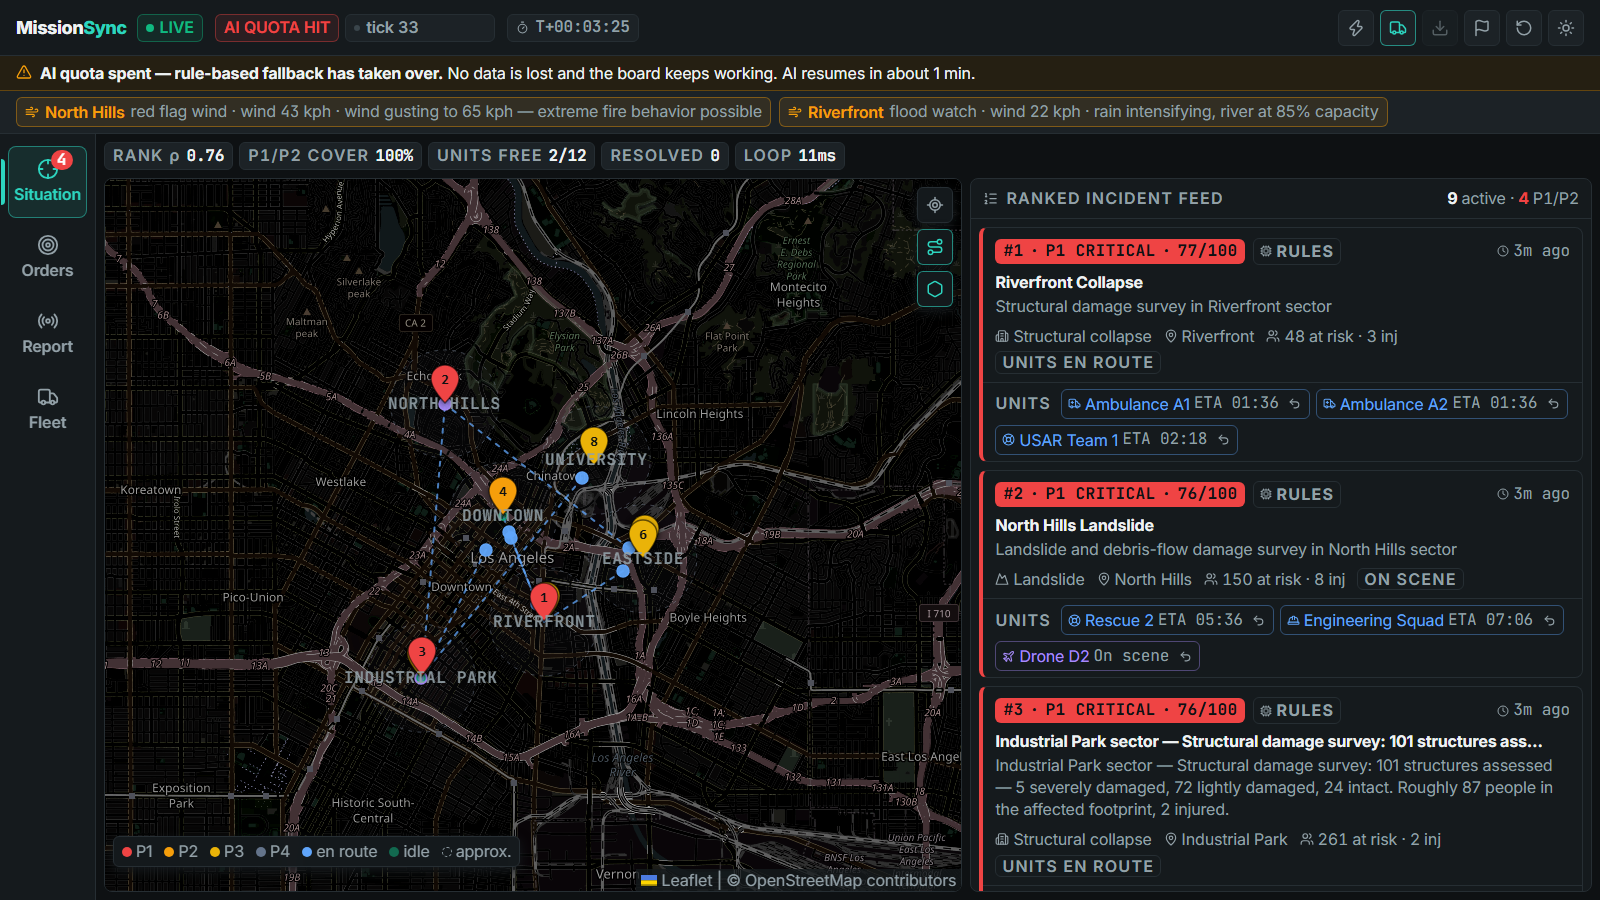
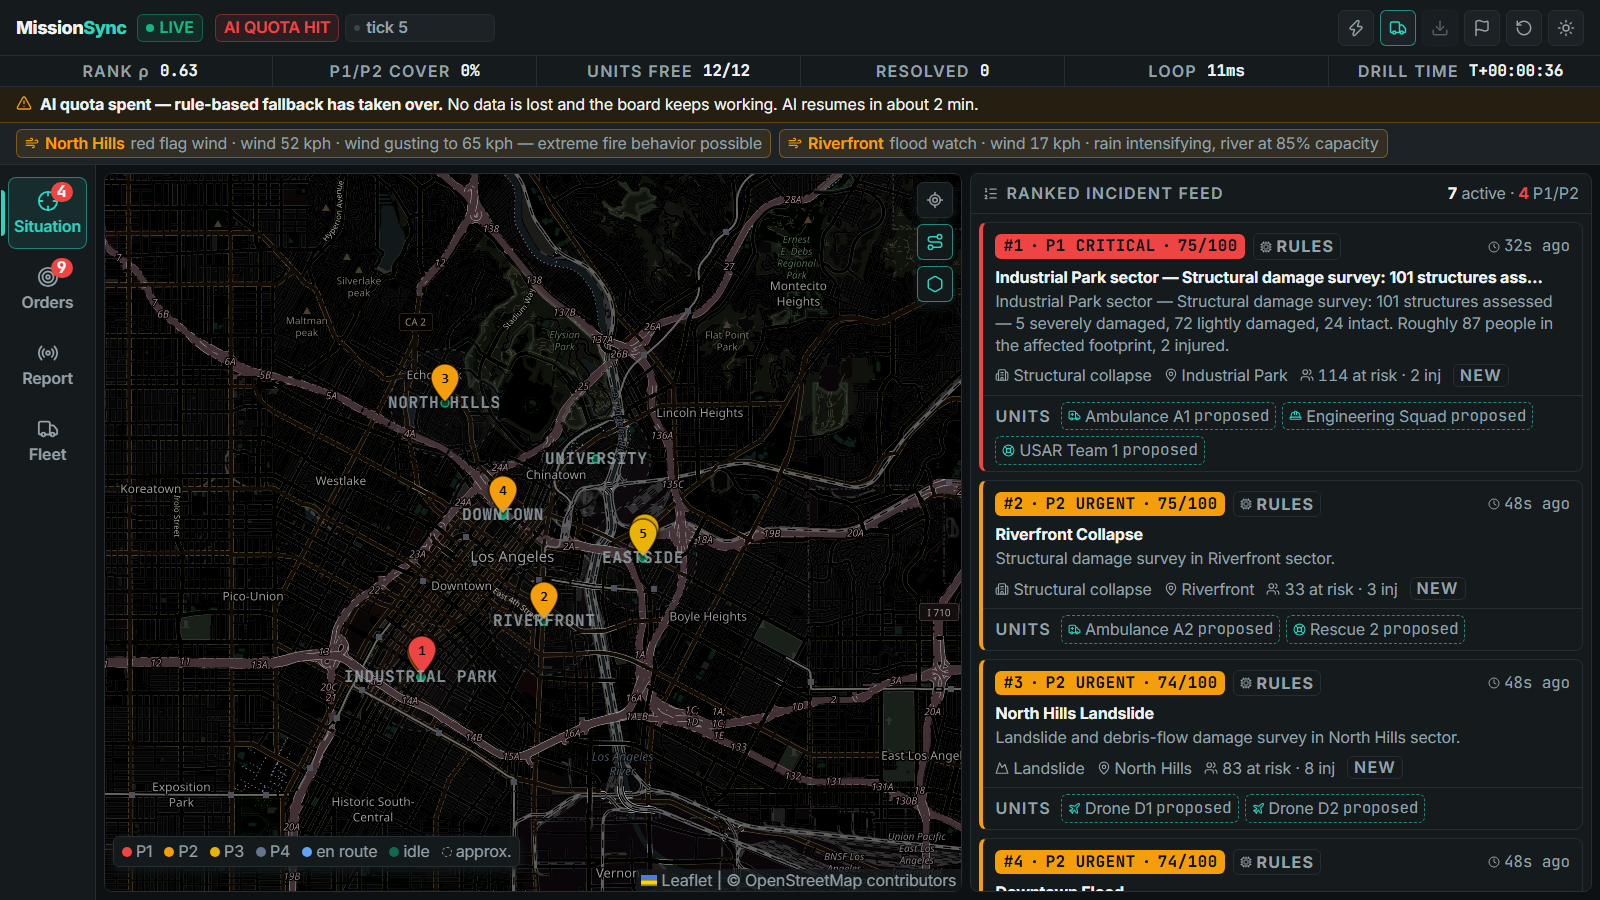
Telemetry bar: six equal columns in one straight line under the header
Rank rho, P1/P2 cover, Units free, Resolved, Loop and Drill time are evenly distributed edge to edge
on desktop (label and value inline from 1280px, stacked below); phones keep the scrollable strip.
Removes the telemetry chips from the header and the Situation panel.

diff --git a/frontend/src/components/HeaderHud.tsx b/frontend/src/components/HeaderHud.tsx
@@ -40,6 +40,43 @@ export function TelemetryChips({ m, snap, className = '' }: { m: Metrics; snap: 
   )
 }
 
+/** One cell of the telemetry bar: label and value, centred in an equal-width column. */
+function BarCell({ label, value, title }: { label: ReactNode; value: string; title?: string }) {
+  return (
+    <div
+      title={title}
+      className="flex min-w-0 flex-col items-center justify-center gap-0 border-l border-line py-1 first:border-l-0 xl:flex-row xl:gap-2.5 tnum"
+    >
+      <span className="whitespace-nowrap text-xs font-semibold uppercase tracking-micro text-ink-2">{label}</span>
+      <b className="whitespace-nowrap font-mono text-sm font-bold text-ink">{value}</b>
+    </div>
+  )
+}
+
+/** Desktop telemetry bar: six equal columns in one straight line, edge to edge under the header. */
+export function TelemetryBar({ snap }: { snap: Snapshot }) {
+  const m = snap.metrics
+  const free = snap.resources.filter((r) => r.status === 'available').length
+  return (
+    <div
+      role="group"
+      aria-label="Drill telemetry"
+      className="hidden shrink-0 grid-cols-6 items-stretch border-b border-line bg-panel px-2 lg:grid"
+    >
+      <BarCell
+        label={<>Rank <span className="normal-case">ρ</span></>}
+        value={m.spearman != null ? m.spearman.toFixed(2) : '—'}
+        title={`Spearman correlation between our urgency and hidden ground truth over ${m.evaluated_incidents} scenario incidents. ${m.dataset_note}.`}
+      />
+      <BarCell label="P1/P2 cover" value={`${Math.round(m.coverage * 100)}%`} title="Share of P1/P2 incidents with a unit assigned" />
+      <BarCell label="Units free" value={`${free}/${snap.resources.length}`} />
+      <BarCell label="Resolved" value={String(m.resolved)} />
+      <BarCell label="Loop" value={`${m.cycle_ms}ms`} title="Last full pipeline cycle" />
+      <BarCell label="Drill time" value={`T+${clockOf(snap.elapsed_s)}`} title="Time since the drill started (stops when it ends)" />
+    </div>
+  )
+}
+
 export function ClockChip({ snap, className = '' }: { snap: Snapshot; className?: string }) {
   return (
     <Chip className={`shrink-0 ${className}`} title="Time since the drill started (stops when it ends)">
@@ -154,13 +191,9 @@ export default function HeaderHud({ snap, theme, onToggleTheme, showUnits, onTog
 
       {/* Engine mode + live pipeline stage */}
       <EngineChips snap={snap} className="hidden lg:flex" />
-      <ClockChip snap={snap} className="hidden xl:inline-flex" />
-
-      {/* Drill telemetry (wide screens; smaller ones get the strip under the header) */}
-      <TelemetryChips m={m} snap={snap} className="ml-auto hidden min-[1700px]:flex" />
 
       {/* Utilities: all of them from sm up; on a phone they move to the strip below so nothing is crushed */}
-      <div className="ml-auto flex items-center gap-1.5 min-[1700px]:ml-0">
+      <div className="ml-auto flex items-center gap-1.5">
         {wide && actionButtons}
         <button type="button" className={iconBtn} onClick={onToggleTheme} title="Toggle light / dark" aria-label="Toggle color theme">
           {theme === 'dark' ? <Sun size={18} aria-hidden /> : <Moon size={18} aria-hidden />}
@@ -168,11 +201,13 @@ export default function HeaderHud({ snap, theme, onToggleTheme, showUnits, onTog
       </div>
     </header>
 
+      <TelemetryBar snap={snap} />
+
       {/* Telemetry + (on phones) the drill actions, for screens too narrow to show them in the HUD */}
       <div className="no-scrollbar flex shrink-0 items-center gap-1.5 overflow-x-auto border-b border-line bg-panel px-3 py-1.5 lg:hidden" aria-label="Drill telemetry and actions">
         {!wide && <div className="flex items-center gap-1.5">{actionButtons}</div>}
         <EngineChips snap={snap} className="flex lg:hidden" />
-        <ClockChip snap={snap} className="xl:hidden" />
+        <ClockChip snap={snap} />
         <TelemetryChips m={m} snap={snap} />
       </div>
     </>

diff --git a/frontend/src/App.tsx b/frontend/src/App.tsx
@@ -9,7 +9,7 @@ import AdminKeyDialog from './components/AdminKeyDialog'
 import ErrorBoundary from './components/ErrorBoundary'
 import EventLog from './components/EventLog'
 import FleetAndLog from './components/FleetAndLog'
-import HeaderHud, { ClockChip, TelemetryChips } from './components/HeaderHud'
+import HeaderHud from './components/HeaderHud'
 import IncidentFeed from './components/IncidentFeed'
 import ResourceBoard from './components/ResourceBoard'
 import { FleetSkeleton } from './components/Skeletons'
@@ -303,9 +303,6 @@ function Board({ source }: { source: DataSource }) {
           <main id="main" className="min-h-0 min-w-0 flex-1 p-2">
             {view === 'situation' && (
               <div className="flex h-full min-h-0 flex-col gap-2">
-                <div className="no-scrollbar shrink-0 overflow-x-auto min-[1700px]:hidden" aria-label="Drill telemetry">
-                  <div className="flex items-center gap-1.5"><ClockChip snap={snap} className="xl:hidden" /><TelemetryChips m={m} snap={snap} /></div>
-                </div>
                 <div className="grid min-h-0 flex-1 grid-cols-[minmax(0,58fr)_minmax(0,42fr)] gap-2">
                   {mapFrame}
                   <div id="incident-feed" tabIndex={-1} className="min-h-0 outline-none">{feed}</div>

diff --git a/docs/DESIGN_SYSTEM.md b/docs/DESIGN_SYSTEM.md
@@ -58,7 +58,7 @@ Framer Motion layout animation re-orders the feed when ranks change; status puls
 
 | Width | Layout |
 |---|---|
-| ≥ 1024 px | A 96 px **navigation rail** on the left and one section at a time in the main area: *Situation* = map + ranked feed (with the drill telemetry row above), *Orders* = recommendations + map, *Report* = intake + live audit log, *Fleet* = unit board + map. Keys `1`–`4` switch; the choice is remembered (`?view=orders` deep-links). |
+| ≥ 1024 px | A full-width **telemetry bar** under the header (six equal columns: Rank ρ · P1/P2 cover · Units free · Resolved · Loop · Drill time — label and value on one line from 1280 px, stacked below that) and a 96 px **navigation rail** on the left and one section at a time in the main area: *Situation* = map + ranked feed, *Orders* = recommendations + map, *Report* = intake + live audit log, *Fleet* = unit board + map. Keys `1`–`4` switch; the choice is remembered (`?view=orders` deep-links). |
 | < 1024 px | Single panel with a bottom tab bar (Map · Incidents · Orders · Report · Units), badges for P1/P2 and pending approvals; the map stays mounted so it never re-initialises. Drill actions sit in a scrollable strip under the header. |
 
 The rail and the tab bar share one mental model and the same badges (`aria-label`s read "Orders, 9 awaiting approval"); only the active section is rendered, so each panel gets the whole viewport height and there is no page scroll.
